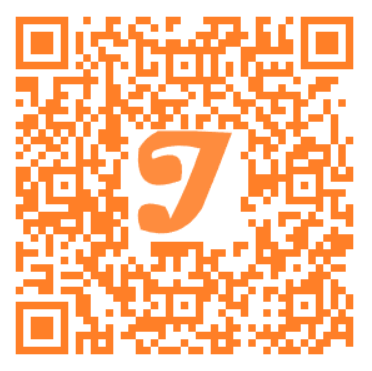
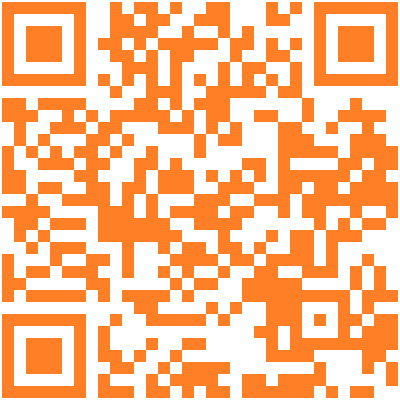
Updated the QR

diff --git a/portfolio/src/components/QRCodeGenerator.vue b/portfolio/src/components/QRCodeGenerator.vue
@@ -1,19 +1,17 @@
 <template>
   <div class="qr-code-generator">
     <button @click="goBack" class="back-button">Back</button>
-    <input v-model="inputData" />
-    <label class="show-image-label">
-      Show Image
-    </label>
-    <input type="checkbox" v-model="showImage" />
+    <input v-model="inputData" placeholder="Enter text to generate QR Code" />
+    <button @click="generateQRCode" class="generate-button">Generate QR Code</button>
+    
     <QRCodeVue3 
-        :value="inputData" 
-        :key="inputData"
-        :width="300" 
-        :height="300" 
-        :qrOptions="{ typeNumber: 7, mode: 'Byte', errorCorrectionLevel: 'H' }"
-        :imageOptions="{hideBackgroundDots: true, imageSize: 0.4, margin: 0 }"
-        :image="computedQrImage"
+        v-if="qrCodeValue"
+        ref="qrCode"
+        :value="qrCodeValue" 
+        :key="qrCodeValue"
+        :width="400" 
+        :height="400" 
+        :qrOptions="{errorCorrectionLevel: 'H' }"
         :dotsOptions="{
           type: 'square',
           color: '#ff7f27',
@@ -23,6 +21,7 @@
         :cornersDotOptions="{ type: undefined, color: '#ff7f27' }"
         fileExt="png"
     />
+    <button class="download-btn" @click="downloadQRCode">Download QR Code</button>
   </div>
 </template>
 
@@ -31,28 +30,45 @@ import { ref, computed } from 'vue';
 import QRCodeVue3 from "qrcode-vue3";
 
 export default {
-name: 'QRCodeVue3Example',
-components: {
-  QRCodeVue3
-},    
-data() {
-  return {
-    inputData: 'test',
-    qrImage: 'favicon.svg',
-    showImage: true
-  };
-},
-computed: {
-  computedQrImage() {
-    return this.showImage ? this.qrImage : '';
-  }
-},
-methods: {
-  goBack() {
+  name: 'QRCodeVue3Example',
+  components: {
+    QRCodeVue3
+  },
+  data() {
+    return {
+      inputData: 'https://www.jonathankat.nl',
+      qrCodeValue: '', // To hold the generated QR code value
+      qrImage: 'favicon.svg',
+      showImage: true
+    };
+  },
+  computed: {
+    computedQrImage() {
+      return this.showImage ? this.qrImage : '';
+    }
+  },
+  methods: {
+    goBack() {
       this.$router.push({ name: 'Home' });
+    },
+    generateQRCode() {
+      this.qrCodeValue = this.inputData; // Set QR code value to the input data
+    },
+    downloadQRCode() {
+      const qrCodeElement = this.$refs.qrCode?.$el?.querySelector('img'); // Target the <img> element
+      console.log('QR Code Element:', qrCodeElement); // Debugging log
+
+      if (qrCodeElement) {
+        const link = document.createElement('a');
+        link.href = qrCodeElement.src; // Use the src attribute of the <img> element
+        link.download = 'QRCode.png'; // Set the file name for download
+        link.click(); // Programmatically trigger the download
+        console.log('Download triggered'); // Debugging log
+      } else {
+        console.error('QR code element not found');
+      }
     }
   }
-
 };
 </script>
 
@@ -72,6 +88,7 @@ methods: {
   cursor: pointer;
   font-family: 'Cascadia Code';
   font-size: 1em;
+  margin-top: 20px;
   margin-bottom: 20px;
   border-radius: 5px;
 }
@@ -80,12 +97,44 @@ methods: {
   background-color: #333;
 }
 
+.download-btn {
+  background-color: #ff7f27;
+  color: #ffffff;
+  border: none;
+  padding: 10px 20px;
+  font-size: 16px;
+  cursor: pointer;
+  border-radius: 5px;
+  transition: background-color 0.3s ease;
+}
+
+.download-btn:hover {
+  background-color: #e66b1f;
+}
+
+.generate-button {
+  background: #ff7f27;
+  color: #fff;
+  border: none;
+  padding: 10px 20px;
+  cursor: pointer;
+  font-family: 'Cascadia Code';
+  font-size: 1em;
+  margin-bottom: 20px;
+  border-radius: 5px;
+}
+
+.generate-button:hover {
+  background-color: #e56721;
+}
+
 .qr-code-generator {
   display: flex;
   flex-direction: column;
   align-items: center;
   gap: 20px;
 }
+
 
 input {
   padding: 10px;
